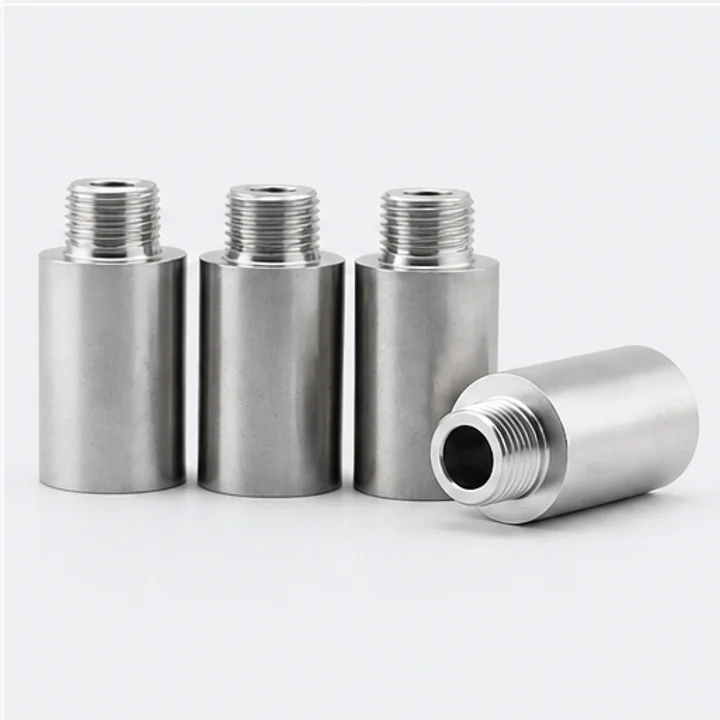
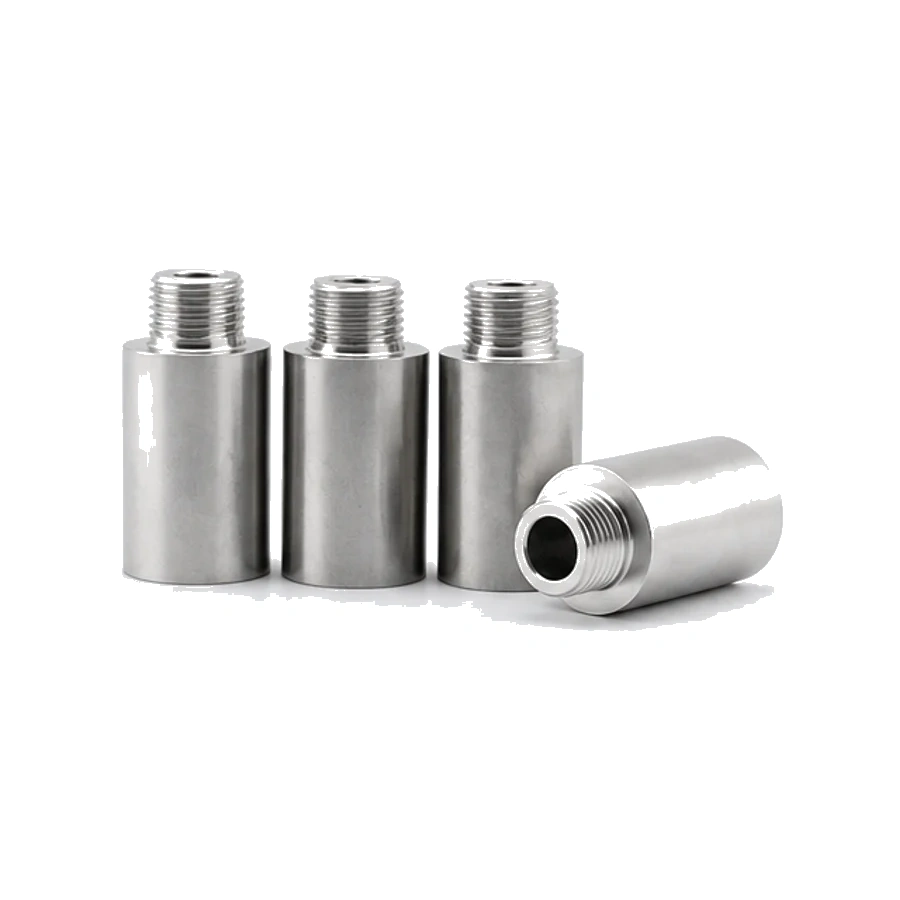
优化配件图片白底展示

Changed region(s): [[0.0306, 0.2444, 0.9778, 0.7639]]

diff --git a/src/components/accessories/accessory-cards.tsx b/src/components/accessories/accessory-cards.tsx
@@ -9,8 +9,8 @@ export function AccessoryCategoryCard({ category, locale }: { category: Accessor
   const c = accessoryCopy[locale];
   return (
     <Link className="card group flex h-full flex-col overflow-hidden bg-white transition hover:border-accent/50 hover:shadow-lg" href={localizedPath(locale, `/accessories/${category.slug}`)}>
-      <div className="grid aspect-[4/3] place-items-center border-b border-line bg-white p-6">
-        <img className="accessory-category-image max-h-[82%] max-w-[82%] object-contain transition duration-300 group-hover:scale-[1.02]" src={category.image} alt={category.title[locale]} />
+      <div className="grid aspect-[4/3] place-items-center border-b border-line bg-white p-4">
+        <img className="accessory-category-image max-h-[92%] max-w-[92%] object-contain transition duration-300 group-hover:scale-[1.02]" src={category.image} alt={category.title[locale]} />
       </div>
       <div className="flex flex-1 flex-col p-4">
         <h3 className="text-lg font-black leading-6">{category.title[locale]}</h3>
@@ -26,8 +26,8 @@ export function AccessoryProductCard({ product, locale }: { product: AccessoryPr
   const path = `/accessories/${product.categorySlug}/${product.slug}`;
   return (
     <Link className="card group flex h-full flex-col overflow-hidden transition hover:border-accent/50 hover:shadow-lg" href={localizedPath(locale, path)}>
-      <div className="grid aspect-[4/3] place-items-center overflow-hidden border-b border-line bg-[#eef2f5] p-6">
-        <img className="accessory-product-image max-h-[82%] max-w-[82%] object-contain transition duration-300 group-hover:scale-[1.02]" src={product.image} alt={product.title[locale]} />
+      <div className="grid aspect-[4/3] place-items-center overflow-hidden border-b border-line bg-white p-4">
+        <img className="accessory-product-image max-h-[92%] max-w-[92%] object-contain transition duration-300 group-hover:scale-[1.02]" src={product.image} alt={product.title[locale]} />
       </div>
       <div className="flex flex-1 flex-col p-5">
         <p className="text-xs font-black uppercase text-accent">{product.model}</p>

diff --git a/src/components/catalog/catalog-nav-dropdown.tsx b/src/components/catalog/catalog-nav-dropdown.tsx
@@ -43,12 +43,12 @@ export function CatalogNavDropdown({ locale, active }: CatalogNavDropdownProps) 
         href={localizedPath(locale, "/catalog")}
       >
         {labels.label}
-        <span className="text-[11px] text-slate-300 transition group-hover:rotate-180 group-focus-within:rotate-180" aria-hidden="true">
+        <span className="text-[11px] text-slate-300 transition group-hover:rotate-180" aria-hidden="true">
           ▾
         </span>
       </Link>
 
-      <div className="catalog-dropdown-panel invisible absolute left-0 top-full z-50 w-44 pt-2 opacity-0 transition duration-150 group-hover:visible group-hover:opacity-100 group-focus-within:visible group-focus-within:opacity-100">
+      <div className="catalog-dropdown-panel invisible absolute left-0 top-full z-50 w-44 pt-2 opacity-0 transition duration-150 group-hover:visible group-hover:opacity-100">
         <div className="border border-line bg-white p-2 text-slate-900 shadow-2xl">
           {items.map((item) => (
             <Link

diff --git a/src/components/accessories/accessories-home-section.tsx b/src/components/accessories/accessories-home-section.tsx
@@ -21,9 +21,9 @@ export function AccessoriesHomeSection({ locale }: { locale: Locale }) {
               href={localizedPath(locale, `/accessories/${product.categorySlug}/${product.slug}`)}
               key={`${product.categorySlug}-${product.slug}`}
             >
-              <div className="grid aspect-[4/3] place-items-center border border-line bg-white p-3 shadow-sm transition group-hover:border-accent/50 group-hover:shadow-md">
+              <div className="grid aspect-[4/3] place-items-center border border-line bg-white p-4 shadow-sm transition group-hover:border-accent/50 group-hover:shadow-md">
                 <img
-                  className="h-full w-full object-contain transition duration-300 group-hover:scale-[1.03]"
+                  className="max-h-[92%] max-w-[92%] object-contain transition duration-300 group-hover:scale-[1.03]"
                   src={product.image}
                   alt={product.title[locale]}
                 />

diff --git a/src/components/accessories/accessory-detail-page.tsx b/src/components/accessories/accessory-detail-page.tsx
@@ -49,8 +49,8 @@ export function AccessoryDetailPage({ category, product, locale }: { category: A
       <section className="section">
         <div className="section-narrow grid gap-8 lg:grid-cols-[380px_1fr]">
           <aside className="card h-fit overflow-hidden lg:sticky lg:top-32">
-            <div className="grid aspect-square place-items-center bg-[#eef2f5] p-5">
-              <img className="h-full w-full object-contain" src={product.image} alt={product.title[locale]} />
+            <div className="grid aspect-square place-items-center bg-white p-4">
+              <img className="accessory-detail-image max-h-[92%] max-w-[92%] object-contain" src={product.image} alt={product.title[locale]} />
             </div>
             <div className="p-6">
               <p className="text-xs font-black uppercase text-accent">{product.model}</p>
